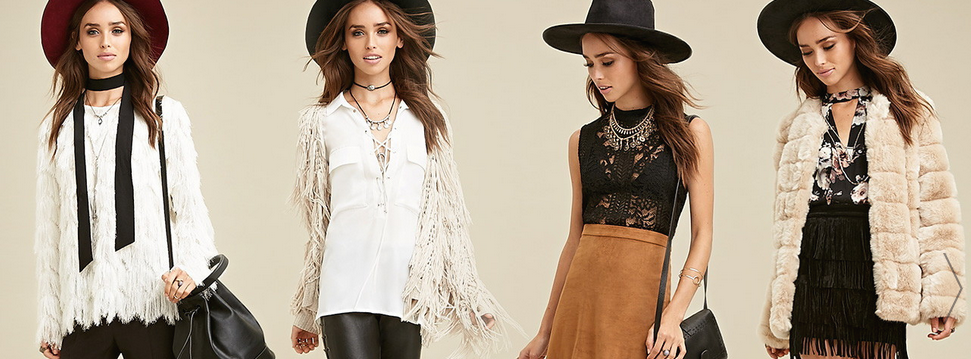
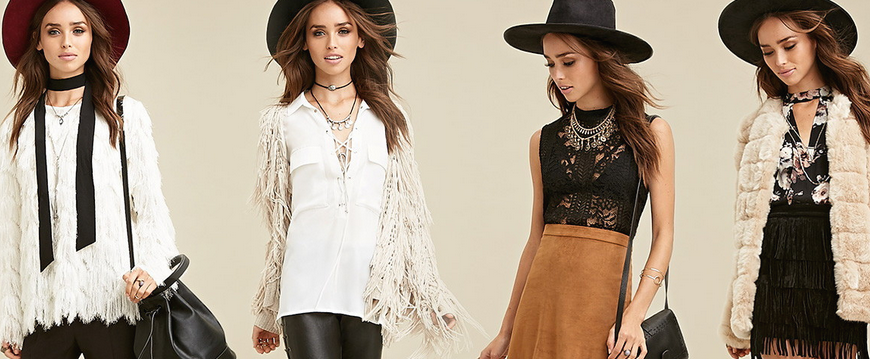
agregue mas imágenes que ahora todos tienen el mismo tamaño

diff --git a/index.html b/index.html
@@ -44,7 +44,7 @@
                 </div>
 
                 <div class="item">
-                  <img src="images/promo2.png" >
+                  <img src="images/promo3.png" >
                 </div>
 
                 <div class="item">
